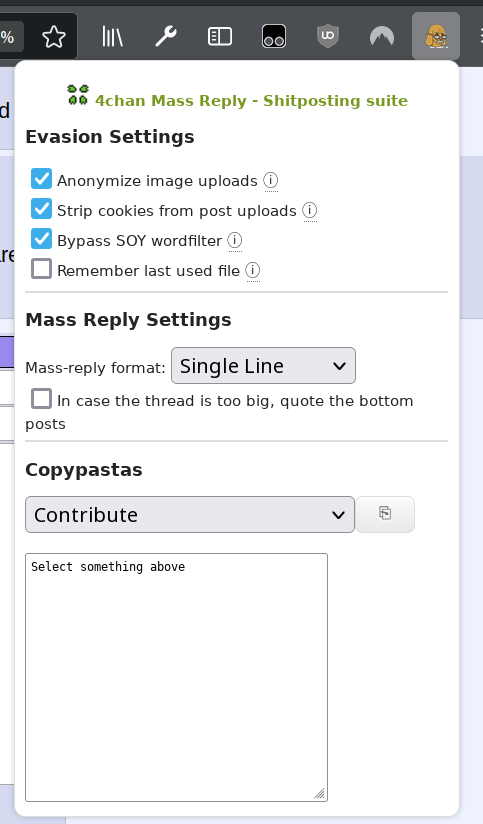
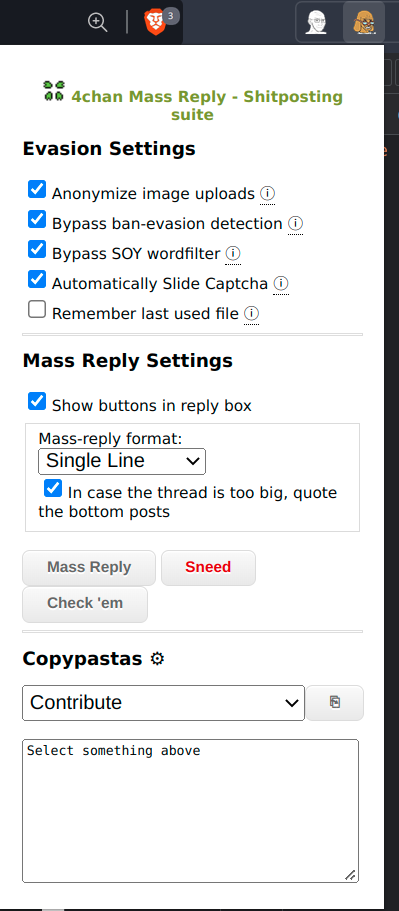
Analyze captcha and automatically slide the slider into the best possible place (it's awesome)

diff --git a/src/js/captchaslider.js b/src/js/captchaslider.js
@@ -1,0 +1,159 @@
+'use strict';
+
+/*
+ * decide if a pixel is closer to black than to white.
+ * return 0 for white, 1 for black
+ */
+function pxlBlackOrWhite(r, g, b) {
+    return (r + g + b > 384) ? 0 : 1;
+}
+
+/*
+ * Get bordering pixels of transparent areas (the outline of the circles)
+ * and return their coordinates with the neighboring color.
+ */
+function getBoundries(imgdata) {
+    const data = imgdata.data;
+    const width = imgdata.width;
+    const height = imgdata.height;
+
+    let i = data.length - 1;
+    let cl = 0;
+    let cr = 0;
+    const chkArray = [];
+    let opq = true;
+    while (i > 0) {
+        // alpha channel above 128 is assumed opaque
+        const a = data[i] > 128;
+        if (a !== opq) {
+            if ((data[i - 4] > 128) === opq) {
+                // ignore just 1-width areas
+                i -= 4;
+                continue;
+            }
+            if (a) {
+                /* transparent pixel to its right */
+                /*
+                // set to color blue (for debugging)
+                data[i + 4] = 255;
+                data[i + 3] = 255;
+                data[i + 2] = 0;
+                data[i + 1] = 0;
+                */
+                const pos = (i + 1) / 4;
+                const x = pos % width;
+                const y = (pos - x) / width;
+                // 1: black, 0: white
+                const clr = pxlBlackOrWhite(data[i - 1], data[i - 2], data[i - 3]);
+                chkArray.push([x, y, clr]);
+                cr += 1;
+            } else {
+                /* opaque pixel to its right */
+                /*
+                // set to color red (for debugging)
+                data[i] = 255;
+                data[i - 1] = 0;
+                data[i - 2] = 0;
+                data[i - 3] = 255;
+                */
+                const pos = (i - 3) / 4;
+                const x = pos % width;
+                const y = (pos - x) / width;
+                // 1: black, 0: white
+                const clr = pxlBlackOrWhite(data[i + 1], data[i + 2], data[i + 3]);
+                chkArray.push([x, y, clr]);
+                cl += 1;
+            }
+            opq = a;
+        }
+        i -= 4;
+    }
+    console.log(`Border area of ${cl + cr} pixels in captcha`);
+    return chkArray
+}
+
+/*
+ * slide the background image and compare the colors of the border pixels in
+ * chkArray, the position with the most matches wins
+ * Return in slider-percentage.
+ */
+function getBestPos(bgdata, chkArray, slideWidth) {
+    const data = bgdata.data;
+    const width = bgdata.width;
+    let bestSimilarity = 0;
+    let bestPos = 0;
+
+    for (let s = 0; s <= slideWidth; s += 1) {
+        let similarity = 0;
+        const amount = chkArray.length;
+        for (let p = 0; p < amount; p += 1) {
+            const chk = chkArray[p];
+            const x = chk[0] + s;
+            const y = chk[1];
+            const clr = chk[2];
+            const off = (y * width + x) * 4;
+            const bgclr = pxlBlackOrWhite(data[off], data[off + 1], data[off + 2]);
+            if (bgclr === clr) {
+                similarity += 1;
+            }
+        }
+        if (similarity > bestSimilarity) {
+            bestSimilarity = similarity;
+            bestPos = s;
+        }
+    }
+    console.log(`Best slider position with similarity of ${bestSimilarity}: ${bestPos}`);
+    return bestPos / slideWidth * 100
+}
+
+function getImageDataFromURI(uri) {
+    return new Promise((resolve, reject) => {
+        const image = document.createElement('img');
+        image.onload = () => {
+            const canvas = document.createElement('canvas');
+            canvas.width = image.width;
+            canvas.height = image.height;
+            const ctx = canvas.getContext('2d');
+            ctx.drawImage(image, 0, 0);
+            const imgdata = ctx.getImageData(0, 0, canvas.width, canvas.height);
+            resolve(imgdata);
+        }
+        image.onerror = (e) => {
+            reject(e);
+        }
+        image.src = uri;
+    });
+}
+
+/*
+ * Automatically slide captcha into place
+ * Arguments are the "t-fg', 't-bg', 't-slider' elements of the captcha
+ */
+export default function slideCaptcha(tfgElement, tbgElement, sliderElement) {
+    // get data uris for captcha back- and foreground
+    const tbgUri = tbgElement.style.backgroundImage.slice(5, -2);
+    const tfgUri = tfgElement.style.backgroundImage.slice(5, -2);
+
+    if (!tbgUri || !tfgUri) {
+        // no slider present
+        return;
+    }
+
+    // load foreground (image with holes)
+    getImageDataFromURI(tfgUri)
+        .then((igd) => {
+            // get array with pixels of foreground
+            // that we compare to background
+            const chkArray = getBoundries(igd);
+            // load background (image that gets slid)
+            getImageDataFromURI(tbgUri)
+                .then((sigd) => {
+                    const slideWidth = sigd.width - igd.width;
+                    // slide, compare and get best matching position
+                    const sliderPos = getBestPos(sigd, chkArray, slideWidth);
+                    // slide in the UI
+                    sliderElement.value = sliderPos;
+                    sliderElement.dispatchEvent(new Event('input'), {'bubbles': true});
+                });
+        });
+}

diff --git a/src/js/content.js b/src/js/content.js
@@ -4,6 +4,7 @@ import createQuotes from './createQuotes';
 import { initDB, saveFile, loadFile } from './indexedStore';
 import { anonFilename, anonHash, checkFilesize } from './anonFiles';
 import { getBoard, getBoardLimits } from './boardLimits';
+import slideCaptcha from './captchaslider';
 
 const fourchanx = document.querySelector('html[class~="fourchan-x"') === null ? false : true;
 
@@ -13,6 +14,7 @@ const fourchanx = document.querySelector('html[class~="fourchan-x"') === null ? 
 const store = {
     "anonymize": false,
     "bypassfilter": true,
+    "slidecapt": false,
     "reuse": false,
     "showbtns": true,
     "bttm": false,
@@ -47,7 +49,7 @@ function isFileInput(e) {
         && /file(?:s)?/i.test(e.type)
     );
     if (result) {
-      console.log('Found file input field', e);
+        console.log('Found file input field', e);
     }
     return result;
 }
@@ -59,7 +61,7 @@ function isCommentArea(e) {
         && (e.getAttribute('name') === 'com' || e.getAttribute('data-name') === 'com')
     );
     if (result) {
-      console.log('Found comment textarea', e);
+        console.log('Found comment textarea', e);
     }
     return result;
 }
@@ -205,6 +207,7 @@ function gotTextArea(e) {
                 let str = (offset && value.charAt(offset - 1) !== '\n') ? '\n' : '';
                 str += '>' + document.getElementById('m' + repl).innerText
                     .replaceAll('\n', '\n>');
+                str = str.toUpperCase();
                 if (offset + match.length + 1 < value.length) str += '\n';
                 return str;
             });
@@ -218,6 +221,30 @@ function gotTextArea(e) {
 function mutationChange(mutations) {
     spotKym(document);
     mutations.forEach((mutation) => {
+        /*
+         * Detect Captcha loaded
+         * (its ok to check via ElementById comparsion , because only one Captcha
+         *  can be loaded on the site at once)
+         */
+        if (store.slidecapt) {
+            const captchaButton = document.getElementById('t-load');
+            if (captchaButton
+                && mutation.target === captchaButton
+                && mutation.removedNodes
+                && mutation.removedNodes[0].data === "Loading"
+            ) {
+                const tfg = document.getElementById('t-fg');
+                const tbg = document.getElementById('t-bg');
+                const tslider = document.getElementById('t-slider');
+                slideCaptcha(tfg, tbg, tslider);
+                return;
+            }
+        }
+        /*
+         * Detect and hook into other stuff we need, like reply box or floating
+         * QuickReplyBox. There can be multiple of those open together,
+         * so we get each when it appears and don't go for IDs
+         */
         const nodes = mutation.addedNodes;
         for (let n = 0; n < nodes.length; n++) {
             const node = nodes[n];

diff --git a/src/html/popup.html b/src/html/popup.html
@@ -32,6 +32,11 @@
             <span class="tooltiptext">Changes every soy to a string that isn't filtered but looks the same</span>
         </div>
         <br>
+        <label><input type="checkbox" id="slidecapt" name="slidecapt" />Automatically Slide Captcha</label>
+        <div class="tooltip">&#9432
+            <span class="tooltiptext">If the captcha needs a slider, attempt to automatically put it into place</span>
+        </div>
+        <br>
         <label><input type="checkbox" id="reuse" name="reuse" />Remember last used file</label>
         <div class="tooltip">&#9432
             <span class="tooltiptext">The last selected file will stay selected even on refresh or after posting</span>

diff --git a/src/js/popup.js b/src/js/popup.js
@@ -57,6 +57,7 @@ document.getElementById('copy').addEventListener("click", (e) => {
         "anonymize": false,
         "nocookie": true,
         "bypassfilter": true,
+        "slidecapt": false,
         "reuse": false,
         "showbtns": true,
         "bttm": false,

diff --git a/README.md b/README.md
@@ -35,6 +35,8 @@ Available features:
   - If thread is too large, which quotes to skip
 * Copypastas
   - Check out copypastas and copy them into the clipboard
+* QoL
+  - If the captcha has a slider, automatically detect where it should go and slide it into place
 
 ## Permissions:
 - Clipboard to copy copypastas into the clipboard and for the button to paste the clipboard into the comment
